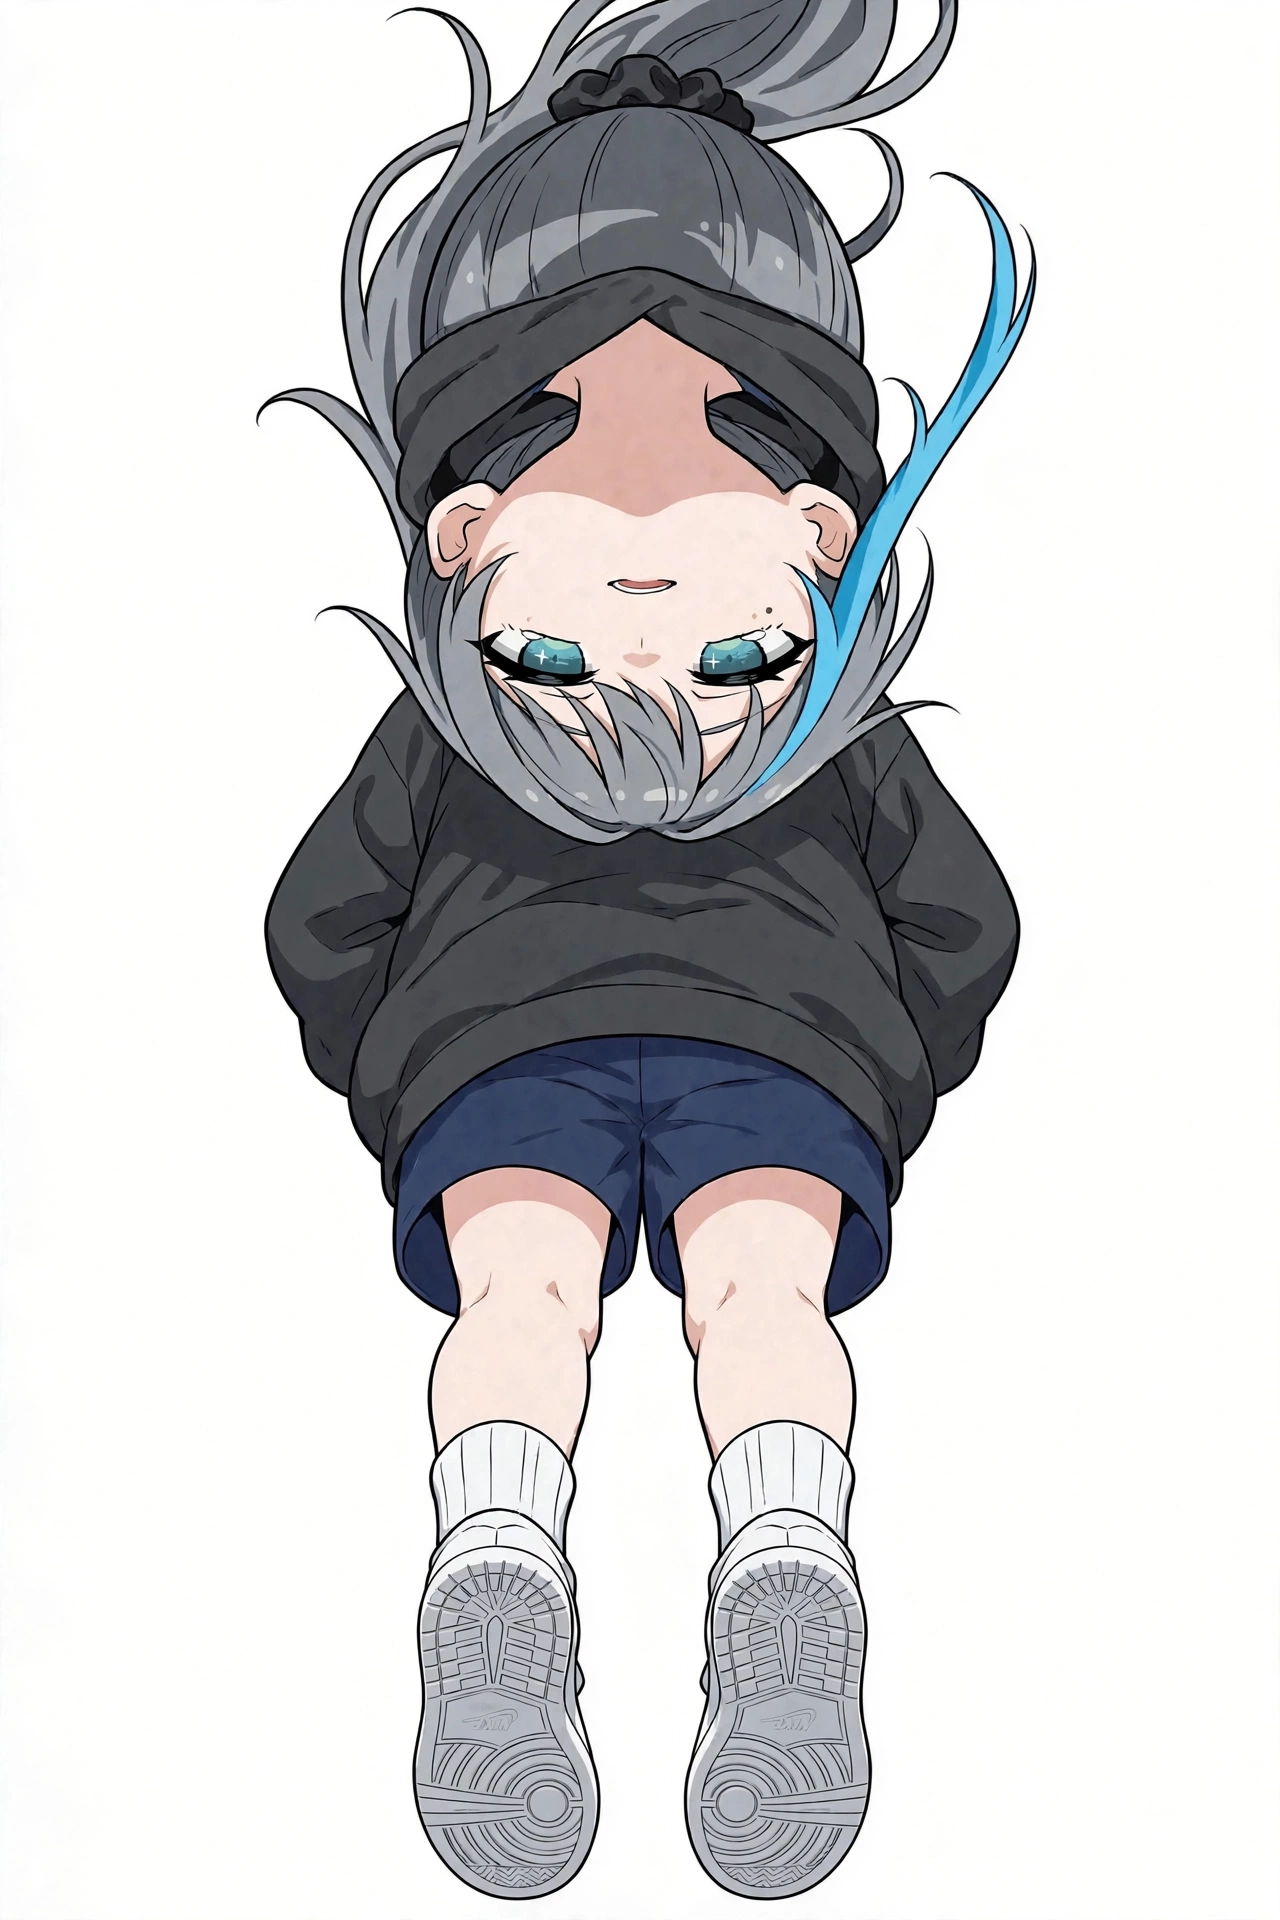
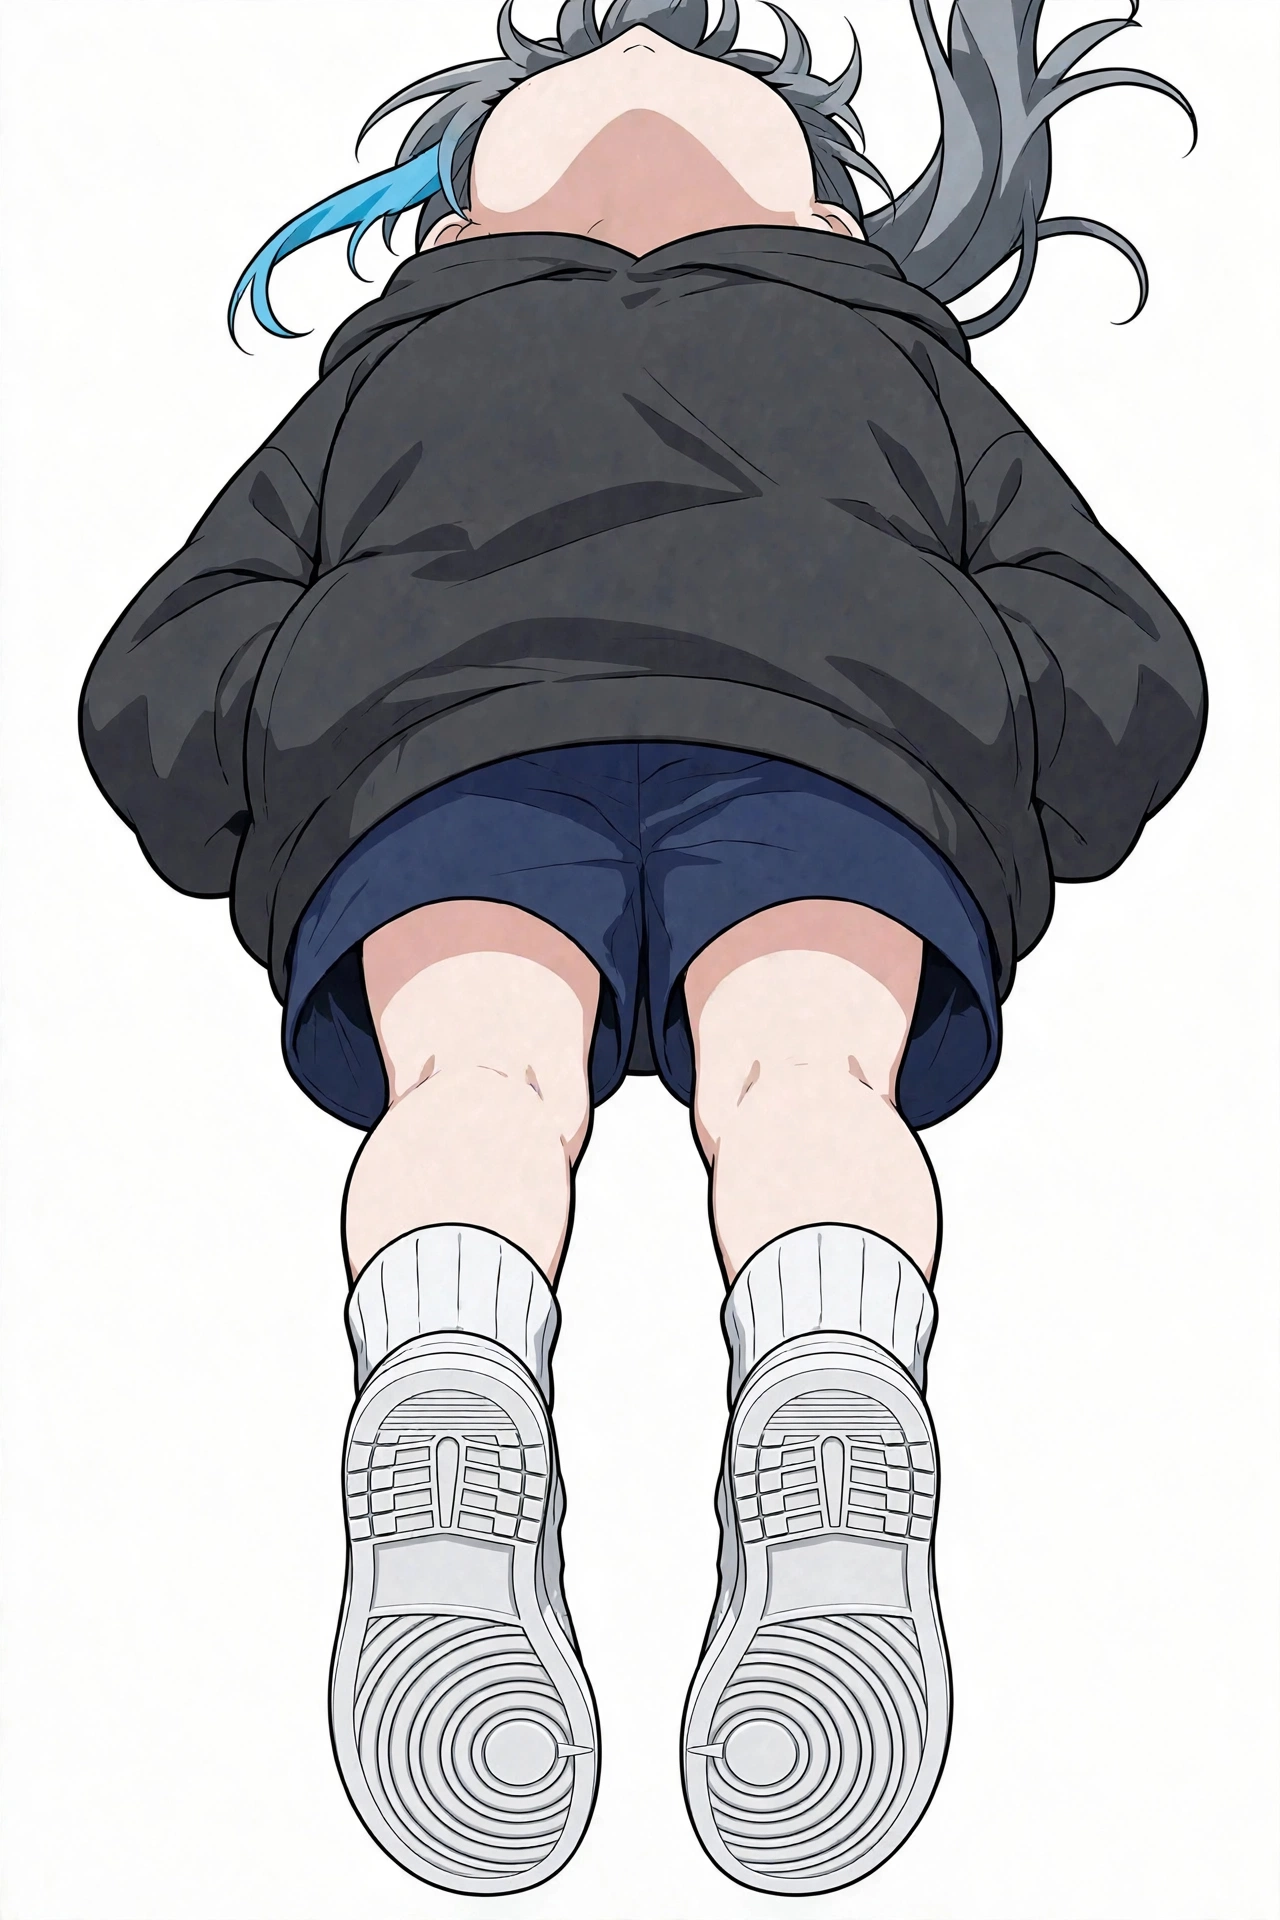
Regenerate the bottom view of the six-view set
The first bottom view was a low-angle shot with the face fully
visible; the new one is a true view from directly below (shoe
soles, underside of the shorts and hoodie hem, underside of
the chin). Spec deviation note 7 updated to match.

diff --git a/vroid-musechan/docs/musechan-3d-spec.md b/vroid-musechan/docs/musechan-3d-spec.md
@@ -71,7 +71,7 @@
 4. 側面図の水色の前髪束は、前髪の際と顎下の2箇所に分かれて見えるが、実際は顔の横を垂れる1本の束。
 5. **右側面図の水色**: 首元・結び目の下に水色が覗いているが、正しくは右側面から水色はほぼ見えない (水色は左側の1束のみ)。髪型が1つの高いポニーテール寄りに見える点も背面図と同じズレ。
 6. **真上図**: 厳密な平面図ではなく真上寄りの俯瞰図として生成されている。頭頂・シュシュ・フードの位置関係の参考として使うこと (水色の1束は左前方に正しく出ている)。
-7. **真下図**: 初回生成分は顔の正面が見えるあおり図で両目の下に点々もあったため差し替え。2回目は顔の正面が画面の上方向、つま先が下方向を向く「向きの逆転」があったため (先輩の指摘)、2026-11-02 に3回目を生成して差し替え済み。現在の図は顔の正面とつま先が同じく画面の下方向を向き、水色の束も画面右 (キャラの左) にある。この構図では顔が上下逆に描かれるのが正しい向きになる。
+7. **真下図**: 初回生成分は顔の正面が見えるあおり図で両目の下に点々もあったため差し替え。2回目は頭部 (顎の裏側が見える形) は自然だったが、靴底の前後が逆 (脚に近い側に前足部の模様) で、顔と足の向きが食い違っていた (先輩の指摘)。最終版は2回目の頭部のまま、靴底だけを正しい向き (かかとが脚に近い側、前足部のピボット模様が遠い側) に描き直したもの。なお3回目に顔の方を直した版は頭が上下逆になってしまったため不採用。
 
 ## Phase 1 への引き継ぎ
 
